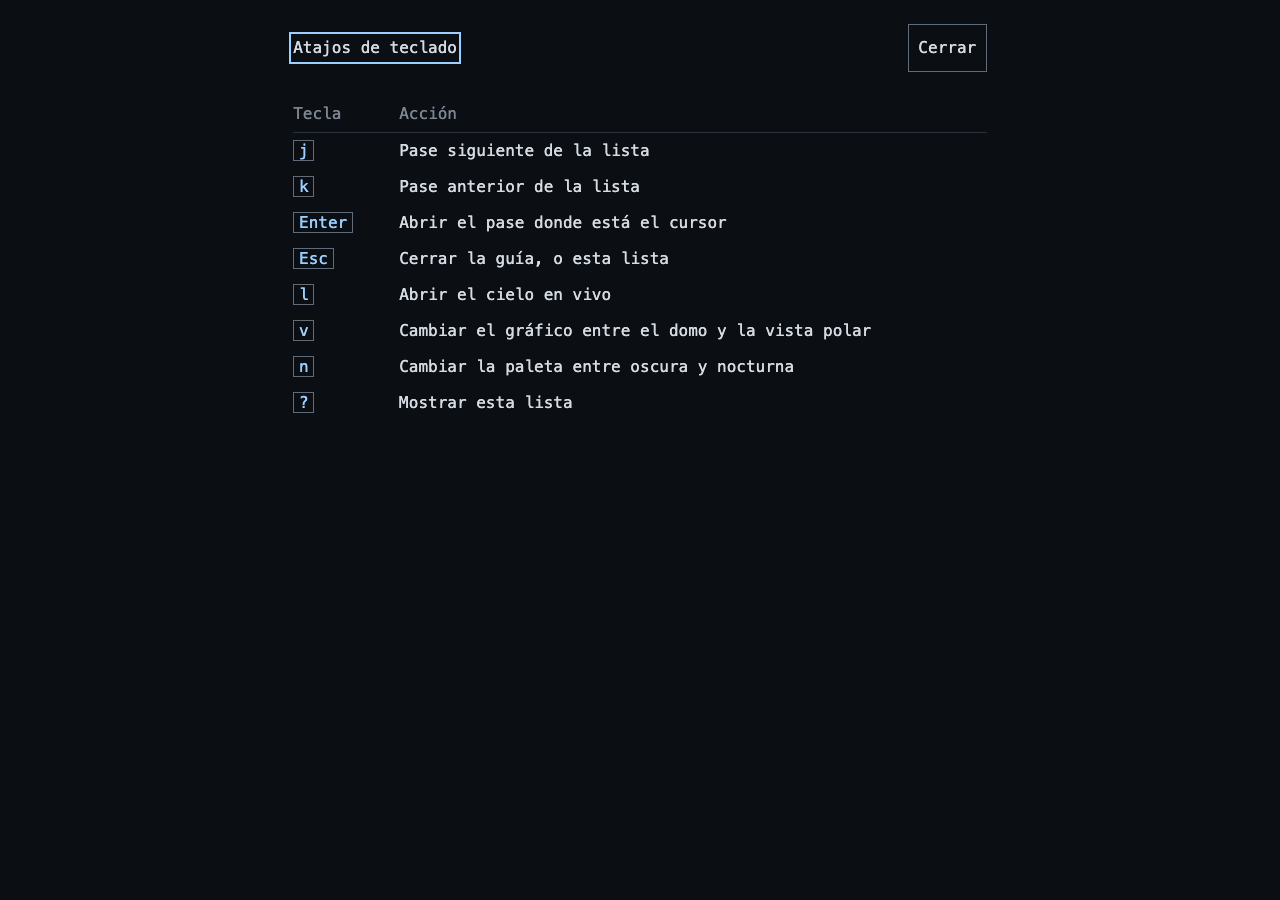
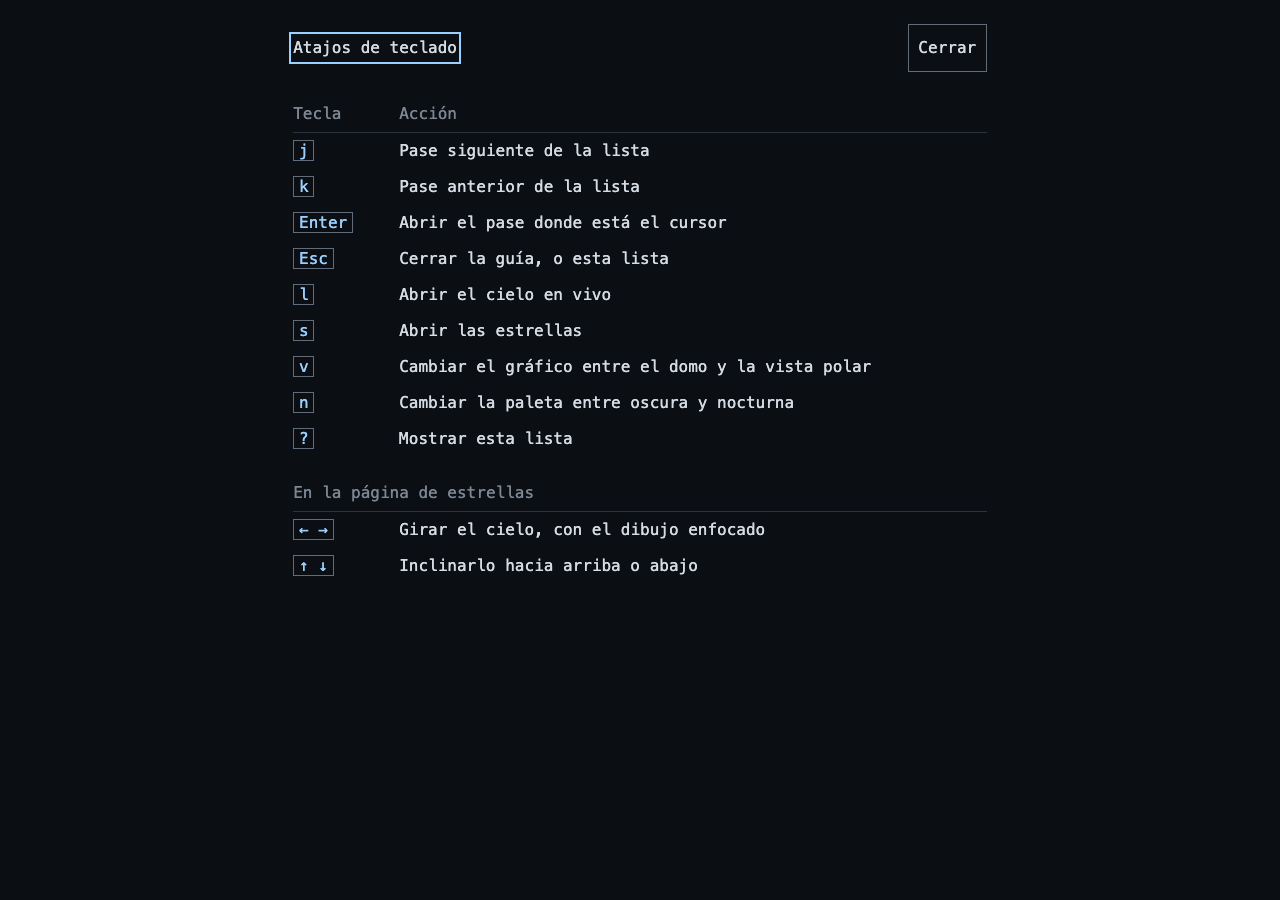
R115: the shortcuts spec lists s and the stars page's keys; the overlay's captures re-shot

diff --git a/tests/e2e/shortcuts.spec.ts b/tests/e2e/shortcuts.spec.ts
@@ -119,7 +119,7 @@ test('? opens the overlay, which lists the keys, and Esc closes it', async ({ pa
 
   const overlay = page.getByTestId('shortcuts-overlay');
   await expect(overlay).toBeVisible();
-  await expect(overlay.locator('kbd')).toHaveText(['j', 'k', 'Enter', 'Esc', 'l', 'v', 'n', '?']);
+  await expect(overlay.locator('kbd')).toHaveText(['j', 'k', 'Enter', 'Esc', 'l', 's', 'v', 'n', '?', '← →', '↑ ↓']);
   // Nothing behind it can be reached while it is up.
   await expect(page.getByRole('main')).toHaveAttribute('inert', '');
 
@@ -150,7 +150,7 @@ test('the overlay reads in Spanish with the keys untranslated (FR-I18N-2/4)', as
   await page.keyboard.press('?');
   const overlay = page.getByTestId('shortcuts-overlay');
   await expect(overlay.getByRole('heading', { name: 'Atajos de teclado' })).toBeVisible();
-  await expect(overlay.locator('kbd')).toHaveText(['j', 'k', 'Enter', 'Esc', 'l', 'v', 'n', '?']);
+  await expect(overlay.locator('kbd')).toHaveText(['j', 'k', 'Enter', 'Esc', 'l', 's', 'v', 'n', '?', '← →', '↑ ↓']);
   await expect(overlay).toContainText('Pase siguiente de la lista');
   await expect(overlay).not.toContainText('Next pass in the list');
 });
@@ -162,7 +162,7 @@ for (const locale of ['en', 'es'] as const) {
       if (theme === 'night') await page.keyboard.press('n');
       await page.keyboard.press('?');
       await expect(page.getByTestId('shortcuts-overlay')).toBeVisible();
-      await expect(page.getByTestId('shortcuts-overlay').locator('kbd')).toHaveCount(8);
+      await expect(page.getByTestId('shortcuts-overlay').locator('kbd')).toHaveCount(11); // R115: `s`, and the stars page's two key rows
       await page.screenshot({ path: `docs/screenshots/r35-shortcuts-1280-${theme}-${locale}.png` });
     });
   }
